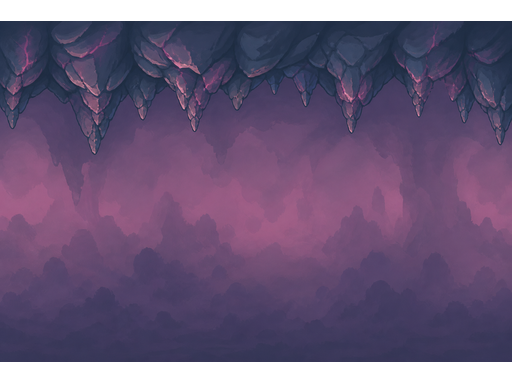
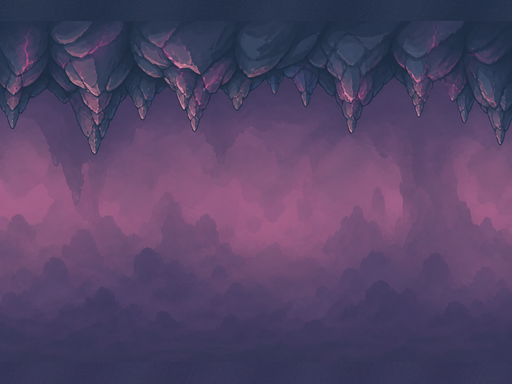
Tuck the cave sky wash under the trail floor with no gap.
Opaque sky edges plus a post-floor retuck keep the backdrop overlapping the crust.

Changed region(s): [[0.0, 0.9375, 1.0, 1.0], [0.0, 0.0, 1.0, 0.0625]]

diff --git a/tools/fix_cave_visuals.py b/tools/fix_cave_visuals.py
@@ -1108,6 +1108,91 @@ def fix_floors() -> None:
     solidify_cave_floor_tile(dirt, (200, 38))
 
 
+def solidify_cave_sky_edges() -> None:
+    """Fill transparent top/bottom margins so the wash can meet the trail floor."""
+    import math
+    import random
+
+    path = OUT / "cave_sky.png"
+    if not path.is_file():
+        return
+    im = Image.open(path).convert("RGBA")
+    px = im.load()
+    w, h = im.size
+    rng = random.Random(44)
+
+    def sample_row(y: int) -> tuple[int, int, int]:
+        samples: list[tuple[int, int, int]] = []
+        for x in range(0, w, 4):
+            r, g, b, a = px[x, y]
+            if a >= 200:
+                samples.append((r, g, b))
+        if not samples:
+            return (48, 44, 72)
+        return (
+            sum(c[0] for c in samples) // len(samples),
+            sum(c[1] for c in samples) // len(samples),
+            sum(c[2] for c in samples) // len(samples),
+        )
+
+    # Nearest opaque rows for top/bottom extension.
+    top_opaque = 0
+    for y in range(h):
+        if sum(1 for x in range(w) if px[x, y][3] >= 200) > w * 0.4:
+            top_opaque = y
+            break
+    bottom_opaque = h - 1
+    for y in range(h - 1, -1, -1):
+        if sum(1 for x in range(w) if px[x, y][3] >= 200) > w * 0.4:
+            bottom_opaque = y
+            break
+
+    top_col = sample_row(top_opaque)
+    bot_col = sample_row(bottom_opaque)
+    filled = 0
+    for y in range(0, top_opaque):
+        for x in range(w):
+            if px[x, y][3] >= 250:
+                continue
+            n = int(math.sin(x * 0.05 + y * 0.02) * 4)
+            px[x, y] = (
+                max(20, min(100, top_col[0] + n + rng.randint(-3, 3))),
+                max(18, min(90, top_col[1] + n + rng.randint(-3, 3))),
+                max(30, min(120, top_col[2] + n + rng.randint(-3, 3))),
+                255,
+            )
+            filled += 1
+    for y in range(bottom_opaque + 1, h):
+        for x in range(w):
+            if px[x, y][3] >= 250:
+                continue
+            n = int(math.sin(x * 0.07 + y * 0.03) * 3)
+            px[x, y] = (
+                max(18, min(90, bot_col[0] + n + rng.randint(-3, 3))),
+                max(16, min(80, bot_col[1] + n + rng.randint(-3, 3))),
+                max(28, min(110, bot_col[2] + n + rng.randint(-3, 3))),
+                255,
+            )
+            filled += 1
+
+    # Also close any soft fringe near the bottom so stretch doesn't open a seam.
+    for y in range(max(0, bottom_opaque - 4), h):
+        for x in range(w):
+            if px[x, y][3] >= 250:
+                continue
+            n = int(math.sin(x * 0.07) * 3)
+            px[x, y] = (
+                max(18, min(90, bot_col[0] + n)),
+                max(16, min(80, bot_col[1] + n)),
+                max(28, min(110, bot_col[2] + n)),
+                255,
+            )
+            filled += 1
+
+    _save(im, path)
+    print(f"cave_sky: solidified edges, filled≈{filled}, clear%={_clear_pct(im):.1f}")
+
+
 def _rightmost_opaque_x(im: Image.Image, *, alpha_thresh: int = 8) -> int | None:
     w, h = im.size
     px = im.load()
@@ -1169,6 +1254,7 @@ def verify() -> None:
         "stalactite.png",
         "cave_ceiling_tile.png",
         "cave_ceiling_fill.png",
+        "cave_sky.png",
     ):
         p = OUT / name
         if p.is_file():
@@ -1176,6 +1262,8 @@ def verify() -> None:
             print(f"{name}: size={im.size} clear%={_clear_pct(im):.1f}")
             if name in ("cave_floor_tile.png", "cave_dirt_tile.png") and _clear_pct(im) > 0.05:
                 raise RuntimeError(f"{name} must be fully opaque (got clear%={_clear_pct(im):.1f})")
+            if name == "cave_sky.png" and _clear_pct(im) > 0.05:
+                raise RuntimeError(f"cave_sky must be opaque edge-to-edge (clear%={_clear_pct(im):.1f})")
 
 
 def main() -> int:
@@ -1190,6 +1278,7 @@ def main() -> int:
     make_stalactite_static()
     make_cave_ceiling_fill()
     make_cave_ceiling_tile()
+    solidify_cave_sky_edges()
     verify()
     print("\n=== files written ===")
     # Unique preserve order

diff --git a/README.md b/README.md
@@ -2,7 +2,7 @@
 
 Child-friendly 2D western cowboy platformer (Godot **4.4**). Aimed at kids ~6: forgiving jumps, nonviolent lasso. **Classic mode** has no lives or game over; **Advanced Mode** (chosen in **Settings** before starting or continuing a slot) adds a three-life limit, badge milestones, and a game-over return to the start screen. Pick **Cowboy** or **Cowgirl** in Settings — the choice applies across all save slots. **German is the default language**; English is fully supported.
 
-**Content version:** `1.8.20` (see `content_version.txt`). Launchers reimport when this stamp changes.
+**Content version:** `1.8.21` (see `content_version.txt`). Launchers reimport when this stamp changes.
 
 This README is the **binding source of truth** for gameplay, level design, art, i18n, and audio. Agents and contributors must follow it (see [Agent / contributor rules](#agent--contributor-rules)).
 
@@ -136,7 +136,7 @@ Agents **must** honor these when editing levels or trail systems:
 - Trail documents may set `"style": "cave"` (workshop **Level style**). Binding art/behavior notes: `docs/cave_biome.md`.
 - Cave remaps stamp **presentation** (same type ids): fungus/lizard/scorpion/bow skeleton/lantern camp/**Crystal Gate** (saloon replacement). Cave-only stamps: `acid_drip`, `stalactite`, `stalactite_static`, `bat`.
 - Pink drips splash on the floor then respawn; falling stalactites pull free before dropping; **Bubble does not block** drips/spikes. Bats can bounce off Bubble.
-- Cave floors use dense cool stone + pink flecks; rock ceiling with **fill above the lip** (no sky strip under the camera top) and a wavy underside about **2cm from the top of a grounded view**, plus **sparse attached stalactites** (none on Dragon Gate / Cave Dragon); deep cave wash / **sky wash touches the floor**; no desert sun/mesa hills.
+- Cave floors use dense cool stone + pink flecks; rock ceiling with **fill above the lip** (no sky strip under the camera top) and a wavy underside about **2cm from the top of a grounded view**, plus **sparse attached stalactites** (none on Dragon Gate / Cave Dragon); deep cave wash **tucks under the floor** (no gap); no desert sun/mesa hills.
 - **Wings cannot pass the ceiling** (`FlightCeilingCave`); touching the rock while flying (`CaveCeilingHazard`) respawns at camp.
 - **Ladders** (workshop Trail stamp): 3-cell climb; Space/Up climbs up, S/Down climbs down. Upper one-way planks must sit on the climb-top row so the cowboy can step onto the higher path; drop off the ledge end back to dirt (no second “down” ladder required). Sample branches appear on new trails and on cave workshop imports.
 

diff --git a/docs/cave_biome.md b/docs/cave_biome.md
@@ -65,7 +65,7 @@ Stamp a **ladder**, run **one-way crystal ledges** along the climb top, then **d
 1. **Lantern camp** — checkpoint with a warm lantern instead of desert bedrolls.
 2. **Crystal ledge** — platform art: cool stone plank with crystal flecks (replaces wood plank look).
 3. **Glow shard** (optional future pickup) — brief silhouette of drip/stalactite danger columns; not required for v1 playability.
-4. **Cave wash backdrop** — no sun/mesas; deep `cave_sky` wash that meets the trail floor + hanging rock ceiling. Solid `cave_ceiling_fill` closes the sky gap above the camera; the wavy lip (`cave_ceiling_tile`) sits about **2cm (~76px)** below the top of a normal grounded view with sparse droppable stalactite teeth fused under it (**Dragon Gate** and the **Cave Dragon** arena keep a clean rock band with no teeth). Rock band is solid (`FlightCeilingCave`); touching it while flying respawns at camp.
+4. **Cave wash backdrop** — no sun/mesas; deep opaque `cave_sky` wash that **tucks under** the trail floor crust (no Background gap above the dirt) + hanging rock ceiling. Solid `cave_ceiling_fill` closes the sky gap above the camera; the wavy lip (`cave_ceiling_tile`) sits about **2cm (~76px)** below the top of a normal grounded view with sparse droppable stalactite teeth fused under it (**Dragon Gate** and the **Cave Dragon** arena keep a clean rock band with no teeth). Rock band is solid (`FlightCeilingCave`); touching it while flying respawns at camp.
 5. **Mineral vein floor** — dense cool stone crust with pink crystal flecks; underfill dirt is a **fully opaque** slate tile (no transparent side margins / sky holes when tiled); deep `FloorAbyss` slate under the bank.
 ## Campaign note
 
